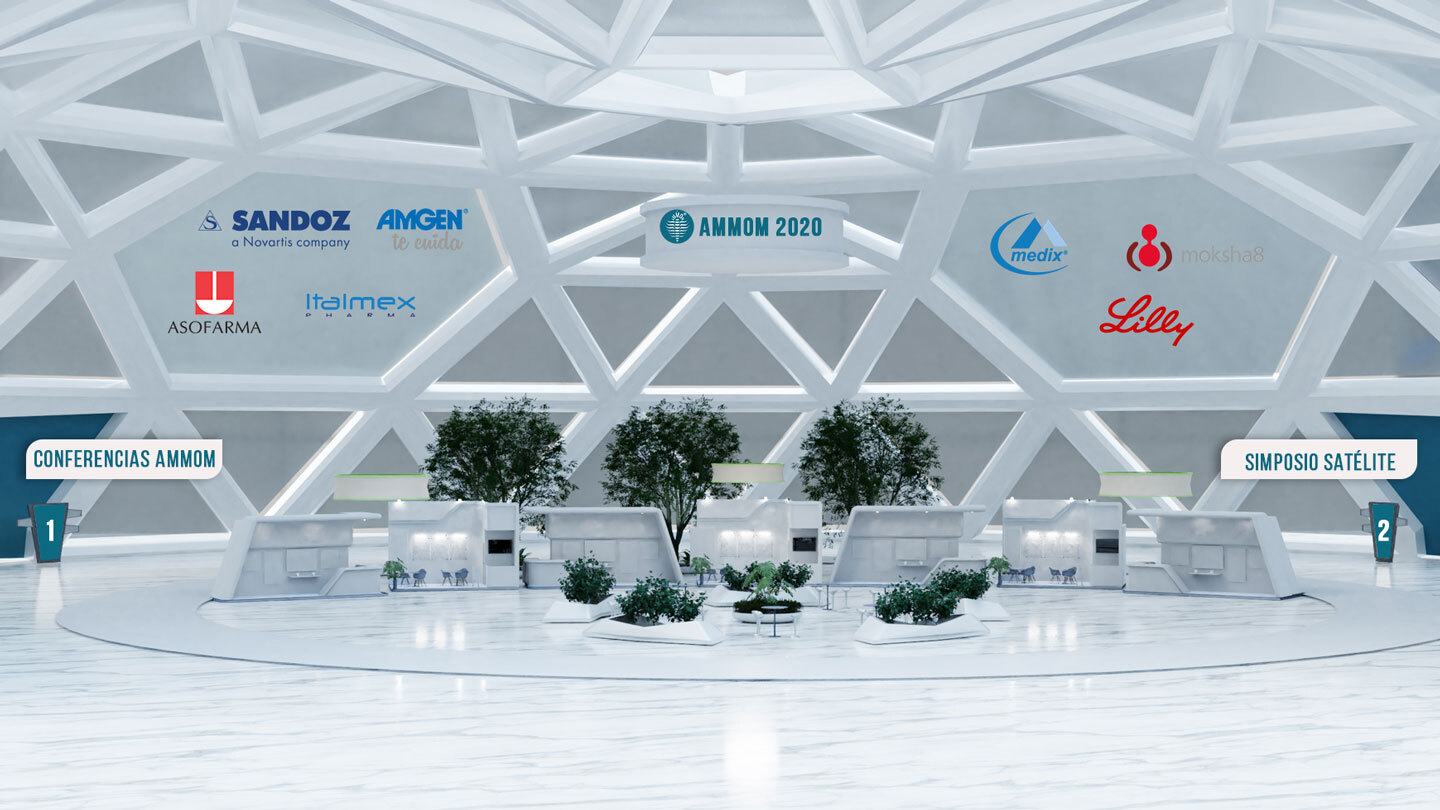
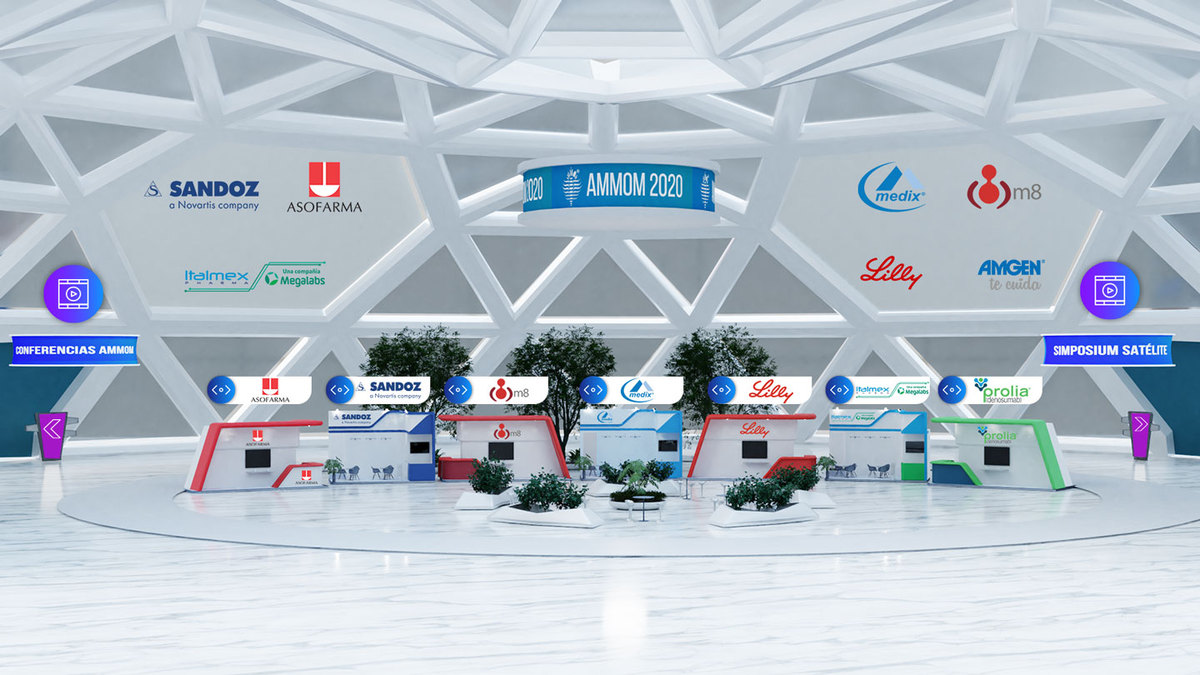
conferencias

diff --git a/pages/congreso-virtual/prolia.vue b/pages/congreso-virtual/prolia.vue
@@ -1,0 +1,232 @@
+<template>
+    <main>
+
+    	<!--? BIENVENIDOS -->
+        <div class="section-bienvenidos">
+            <div class="slider-height2 d-flex align-items-center">
+                <div class="container">
+                    <div class="row">
+                        <div class="col-xl-4 pt-4 mt-3 mb-0">
+                            <h2 class="mb-4 pl-4">Bienvenido a Prolia</h2>
+                           	<p class="pl-4">Presione en donde vea el símbolo <img src="~/assets/img/buttons/SPOT.png" width="px" class="float-right pr-4 mr-3"><br>para acceder al contenido</p>
+                        </div>
+                        <div class="col-xl-8 pt-4 mt-3 mb-3">
+                             <img src="~/assets/images/Logo-Pfizer.png" width="300px" class=" float-left ml-2 pl-4 pt-3">
+                        </div>
+                        <div class="col-xl-12 pl-4 registrarte">
+                            <nuxt-link to="/congreso-virtual" class="btn mb-5 mb-md-3 mt-0 ml-2">Regresar</nuxt-link>
+                        </div>
+                    </div>
+                </div>
+            </div>
+        </div>
+
+        <div class="container">
+            <div class="row">
+                <div class="col-xl-12 m-4">
+                    <div style="position:relative"><img id="main-image" src="~/assets/images/pfizer_stand.jpg" width="100%">
+                        <a @click="$bvModal.show('uno')" class="rim-hotspot" style="width:5.0%; height:9.2%; left:60.0%; top:63.2%; position:absolute; cursor:pointer; display:block; z-index:5; overflow:hidden;"></a>
+                        <a @click="$bvModal.show('uno')" class="rim-hotspot" style="width:5.7%; height:9.4%; left:59.6%; top:51.8%; position:absolute; cursor:pointer; display:block; z-index:5; overflow:hidden;"></a>
+                        <a @click="$bvModal.show('uno')" class="rim-hotspot" style="width:3.5%; height:9.4%; left:55.3%; top:63.4%; position:absolute; cursor:pointer; display:block; z-index:5; overflow:hidden;"></a>
+                        <a @click="$bvModal.show('uno')" class="rim-hotspot" style="width:3.5%; height:9.4%; left:55.3%; top:52.0%; position:absolute; cursor:pointer; display:block; z-index:5; overflow:hidden;"></a>
+                        <a @click="$bvModal.show('uno')" class="rim-hotspot" style="width:3.3%; height:9.2%; left:49.7%; top:51.8%; position:absolute; cursor:pointer; display:block; z-index:5; overflow:hidden;"></a>
+                        <a @click="$bvModal.show('uno')" class="rim-hotspot" style="width:3.7%; height:9.9%; left:49.5%; top:63.2%; position:absolute; cursor:pointer; display:block; z-index:5; overflow:hidden;"></a>
+                        <a @click="$bvModal.show('uno')" class="rim-hotspot" style="width:3.2%; height:9.4%; left:44.3%; top:63.4%; position:absolute; cursor:pointer; display:block; z-index:5; overflow:hidden;"></a>
+                        <a @click="$bvModal.show('uno')" class="rim-hotspot" style="width:5.4%; height:9.9%; left:43.2%; top:51.7%; position:absolute; cursor:pointer; display:block; z-index:5; overflow:hidden;"></a>
+                        <a @click="$bvModal.show('uno')" class="rim-hotspot" style="width:8.4%; height:9.1%; left:67.4%; top:53.6%; position:absolute; cursor:pointer; display:block; z-index:5; overflow:hidden;"></a>
+                        <a @click="$bvModal.show('uno')" class="rim-hotspot" style="width:4.4%; height:5.8%; left:76.1%; top:64.0%; position:absolute; cursor:pointer; display:block; z-index:5; overflow:hidden;"></a>
+                        <a @click="$bvModal.show('uno')" class="rim-hotspot" style="width:10.7%; height:39.9%; left:86.8%; top:48.7%; position:absolute; cursor:pointer; display:block; z-index:5; overflow:hidden;"></a>
+                        <a @click="$bvModal.show('uno')" class="rim-hotspot" style="width:6.1%; height:7.6%; left:30.2%; top:69.6%; position:absolute; cursor:pointer; display:block; z-index:5; overflow:hidden;"></a>
+                        <a @click="$bvModal.show('tres')" class="rim-hotspot" style="width:9.3%; height:10.2%; left:30.1%; top:49.0%; position:absolute; cursor:pointer; display:block; z-index:5; overflow:hidden;"></a>
+                        <a @click="$bvModal.show('dos')" class="rim-hotspot" style="width:6.4%; height:9.9%; left:17.5%; top:61.9%; position:absolute; cursor:pointer; display:block; z-index:5; overflow:hidden;"></a>
+                        <a @click="$bvModal.show('uno')" class="rim-hotspot" style="width:11.6%; height:42.6%; left:-0.1%; top:46.0%; position:absolute; cursor:pointer; display:block; z-index:5; overflow:hidden;"></a>
+                    </div>
+                </div>
+            </div>
+        </div>
+
+        <!--? CONTACTO-->
+        <div class="section-contacto">
+                <div class="container-expanded">
+                    <div class="row">
+                        <div class="col-xl-6 mb-0 contacto">
+                            <div class="col-xl-10 offset-xl-1 p-4">
+                                <h2 class="text-center mb-4">Contacto con Prolia</h2>
+                                <form class="form-contact contact_form" @submit.prevent="sendContact">
+                                    <div class="row">
+                                        <div class="col-sm-12">
+                                            <div class="form-group">
+                                                <input class="form-control valid" name="name" id="name" type="text"
+                                                    placeholder="Nombre" v-model="contact.name" required>
+                                            </div>
+                                        </div>
+                                        <div class="col-sm-6">
+                                            <div class="form-group">
+                                                <input class="form-control valid" name="email" id="email" type="email"
+                                                    placeholder="Email" v-model="contact.email" required>
+                                            </div>
+                                        </div>
+                                        <div class="col-sm-6">
+                                            <div class="form-group">
+                                                <input class="form-control valid" name="phone" id="phone" type="text"
+                                                    placeholder="Teléfono" v-model="contact.phone" v-mask="'(###) #######'"
+                                                    required minlength="10">
+                                            </div>
+                                        </div>
+                                        <div class="col-sm-12">
+                                            <div class="form-group">
+                                                <input class="form-control" name="subject" id="subject" type="text"
+                                                    placeholder="Asunto" v-model="contact.subject" required>
+                                            </div>
+                                        </div>
+                                        <div class="col-12">
+                                            <div class="form-group">
+                                                <textarea class="form-control w-100" name="message" id="message" cols="30"
+                                                        rows="9" placeholder="Mensaje" v-model="contact.message"
+                                                        required></textarea>
+                                            </div>
+                                        </div>
+                                    </div>
+                                    <div class="form-group mt-3 text-center">
+                                        <button type="submit" class="button button-contactForm boxed-btn" :disabled="disabled">
+                                            Enviar
+                                        </button>
+                                    </div>
+                                </form>
+
+                            </div>
+                        </div>
+                        <div class="col-xl-6 p-0 m-0" style="background-image:url(/images/pfizer/POSTER1.jpg);background-size:cover">
+                            <div class="col-xl-3 link text-center"><a href="www.google.com" target="_blank"><h3>www.Pfizer</h3></a></div>
+                        </div>
+                        <div>
+                            <b-modal ref="uno" id="uno" hide-footer>
+                                <div class="d-block text-center">
+                                    <img src="~/assets/images/pfizer/Roll-up-CDE.jpg"  width="100%;">
+                                </div>
+                                <b-button class="mt-3" variant="outline-danger" block @click="hideModal">Close Me</b-button>
+                            </b-modal>
+
+                            <b-modal  id="dos" hide-footer>
+                                <div class="d-block text-center">
+                                    <img src="~/assets/images/pfizer/Roll-up-CDE.jpg"  width="100%;">
+                                </div>
+                                <b-button class="mt-3" variant="outline-danger" block @click="hideModal">Close Me</b-button>
+                            </b-modal>
+                            <b-modal  id="tres" hide-footer>
+                                <div class="d-block text-center">
+                                    <img src="~/assets/images/pfizer/Roll-up-CDE.jpg"  width="100%;">
+                                </div>
+                                <b-button class="mt-3" variant="outline-danger" block @click="hideModal">Close Me</b-button>
+                            </b-modal>
+
+                        </div>
+                    </div>
+                </div>
+        </div>
+
+     </main>
+</template>
+<script>
+  export default {
+    name: "contacto",
+    middleware: ['authenticated'],
+
+    data() {
+      return {
+        contact: {
+          type: null
+        },
+        disabled: false
+      }
+    },
+
+    methods: {
+        showModal() {
+            this.$refs['my-modal'].show()
+        },
+        hideModal() {
+            this.$refs['my-modal'].hide()
+        },
+        toggleModal() {
+            // We pass the ID of the button that we want to return focus to
+            // when the modal has hidden
+            this.$refs['my-modal'].toggle('#toggle-btn')
+        },
+        async sendContact() {
+            this.disabled = true;
+
+            if (this.contact.type === 'Proveedor') {
+            this.contact.mail_to = 'jorge@srcongress.mx';
+            } else if (this.contact.type === 'Profesor') {
+            this.contact.mail_to = 'adriana.sanchez@srcongress.mx';
+            } else {
+            this.contact.mail_to = 'atencion@srcongress.mx';
+            }
+
+            try {
+            await this.$axios.$post('/emails/contact', this.contact);
+
+            this.$swal('¡Mensaje enviado correctamente!', 'En caso de ser necesario nos pondremos en contacto contigo a la brevedad.', 'success')
+            this.disabled = false;
+            this.contact = {
+                type: null
+            }
+            } catch (e) {
+            console.error(e);
+            this.disabled = false;
+            this.$swal('¡Error al enviar datos!', 'Por favor contacte directamente a contacto@mastologia.org.mx', 'error');
+            }
+        }
+    }
+  }
+</script>
+
+<style lang="scss" scoped>
+    @import "assets/scss/color";
+
+    .section-bienvenidos{
+    	height:auto;
+    	h2 , p{
+    		color:black;
+    		font-weight:lighter;
+    	}
+        a{
+            background:#676BC4;
+        }
+    }
+    .section-contacto{
+        .contacto{
+            background:#676bc4;
+            .form-contact .form-control{
+                background:white;
+            }
+        }
+        .link{
+            position:relative;
+            top:50%;
+            left:40%;
+            background-color:white;
+            opacity:.7;
+            border-radius:10px;
+
+        }
+    }
+    .slider-height2{
+    	height:auto;
+    }
+    .aviso-pantalla{
+      background-color:#7D4199!important;
+      padding:30px 10px 30px 10px;
+      p{
+        color:white;
+      }
+    }
+
+
+    .contact-info {
+        a {
+            color: $theme-color;
+        }
+    }
+</style>

diff --git a/pages/congreso-virtual/index.vue b/pages/congreso-virtual/index.vue
@@ -7,10 +7,13 @@
                 <div class="container">
                     <div class="row">
                         <div class="col-xl-12 pt-4 mt-3 mb-3">
-                            <h2 class="mb-4 pl-4">Exposición Comercial 2020</h2>
-                           	<p class="pl-4">¡Bienvenido! Presione en cada stand para acceder al contenido de cada expositor.</p>
-                           	<p class="pl-4">Presione en donde vea este símbolo para acceder a otras áreas del Congreso:</p>
-                             <img src="~/assets/img/buttons/SPOT.png" width="px" class="float-left pl-4">
+                            <h2 class="mb-4 pl-4 font-weight-bold">EXPO VIRTUAL</h2>
+                           	<p class="pl-4 pt-2">Bienvenido!</p>
+                           	<div><p class="pl-4 float-left">Presione sobre cada stand para acceder al contenido de cada expositor en el símbolo</p> <img src="~/assets/img/buttons/stand.png" width="60px" class="float-left pl-4"></div>
+                            <div class="">
+                             <p class="float-left pl-4 pt-2">Para ingresar a las Conferencias y Simposium de las Jornadas Virtuales presione el símbolo</p>
+                             <img src="~/assets/img/buttons/video.png" width="60px" class="float-left pl-4">
+                             </div>
                         </div>
                     </div>
                 </div>
@@ -25,15 +28,16 @@
         <div>
             <!-- Image Map Generated by http://www.image-map.net/ -->
             <div style="position:relative"><img id="main-image" src="~/assets/images/banner.jpg" width="100%">
-            <a href="/congreso-virtual/simposio" class="rim-hotspot" style="width:15.1%; height:23.9%; left:84.0%; top:51.5%; position:absolute; cursor:pointer; display:block; z-index:5; overflow:hidden;"></a>
-            <a href="/congreso-virtual/live" class="rim-hotspot" style="width:14.8%; height:20.5%; left:1.2%; top:50.7%; position:absolute; cursor:pointer; display:block; z-index:5; overflow:hidden;"></a>
-            <a href="/congreso-virtual/lilly" class="rim-hotspot" style="width:7.3%; height:6.4%; left:76.0%; top:36.3%; position:absolute; cursor:pointer; display:block; z-index:5; overflow:hidden;"></a>
-            <a href="/congreso-virtual/m8" class="rim-hotspot" style="width:10.9%; height:6.6%; left:77.5%; top:27.7%; position:absolute; cursor:pointer; display:block; z-index:5; overflow:hidden;"></a>
-            <a href="/congreso-virtual/medix" class="rim-hotspot" style="width:6.7%; height:9.7%; left:68.4%; top:25.6%; position:absolute; cursor:pointer; display:block; z-index:5; overflow:hidden;"></a>
-            <a href="/congreso-virtual/amgen" class="rim-hotspot" style="width:7.5%; height:6.1%; left:26.0%; top:25.1%; position:absolute; cursor:pointer; display:block; z-index:5; overflow:hidden;"></a>
-            <a href="/congreso-virtual/italmex" class="rim-hotspot" style="width:9.6%; height:5.3%; left:20.2%; top:34.7%; position:absolute; cursor:pointer; display:block; z-index:5; overflow:hidden;"></a>
-            <a href="/congreso-virtual/sandox" class="rim-hotspot" style="width:12.8%; height:6.9%; left:12.7%; top:23.9%; position:absolute; cursor:pointer; display:block; z-index:5; overflow:hidden;"></a>
-            <a href="/congreso-virtual/asofarma" class="rim-hotspot" style="width:7.1%; height:10.6%; left:11.4%; top:32.0%; position:absolute; cursor:pointer; display:block; z-index:5; overflow:hidden;"></a></div>
+                <a href="/congreso-virtual/simposio" class="rim-hotspot" style="width:10.1%; height:31.2%; left:87.8%; top:38.4%; position:absolute; cursor:pointer; display:block; z-index:5; overflow:hidden;"></a>
+                <a href="/congreso-virtual/prolia" class="rim-hotspot" style="width:8.6%; height:16.7%; left:78.2%; top:55.8%; position:absolute; cursor:pointer; display:block; z-index:5; overflow:hidden;"></a>
+                <a href="/congreso-virtual/italmex" class="rim-hotspot" style="width:8.6%; height:16.5%; left:68.7%; top:55.6%; position:absolute; cursor:pointer; display:block; z-index:5; overflow:hidden;"></a>
+                <a href="/congreso-virtual/lilly" class="rim-hotspot" style="width:9.4%; height:14.2%; left:58.0%; top:56.1%; position:absolute; cursor:pointer; display:block; z-index:5; overflow:hidden;"></a>
+                <a href="/congreso-virtual/medix" class="rim-hotspot" style="width:8.3%; height:16.2%; left:48.2%; top:55.0%; position:absolute; cursor:pointer; display:block; z-index:5; overflow:hidden;"></a>
+                <a href="/congreso-virtual/m8" class="rim-hotspot" style="width:9.0%; height:16.2%; left:37.0%; top:54.5%; position:absolute; cursor:pointer; display:block; z-index:5; overflow:hidden;"></a>
+                <a href="/congreso-virtual/sandox" class="rim-hotspot" style="width:9.1%; height:18.2%; left:26.8%; top:53.8%; position:absolute; cursor:pointer; display:block; z-index:5; overflow:hidden;"></a>
+                <a href="/congreso-virtual/asofarma" class="rim-hotspot" style="width:10.4%; height:18.6%; left:15.6%; top:53.8%; position:absolute; cursor:pointer; display:block; z-index:5; overflow:hidden;"></a>
+                <a href="/congreso-virtual/live" class="rim-hotspot" style="width:10.7%; height:31.5%; left:0.8%; top:37.6%; position:absolute; cursor:pointer; display:block; z-index:5; overflow:hidden;"></a>
+            </div>
         </div>
 
      </main>
@@ -41,7 +45,7 @@
 <script>
   export default {
     name: "index",
-    middleware: ['authenticated'],
+    /*middleware: ['authenticated']*/
   }
 </script>
 
@@ -49,7 +53,7 @@
     @import "assets/scss/color";
 
     .section-bienvenidos{
-    	background: linear-gradient(to bottom, #2F447D, #5798B1);
+    	background: linear-gradient(to bottom, #7609f3,#9c12db);
     	height:auto;
     	h2 , p{
     		color:white;
